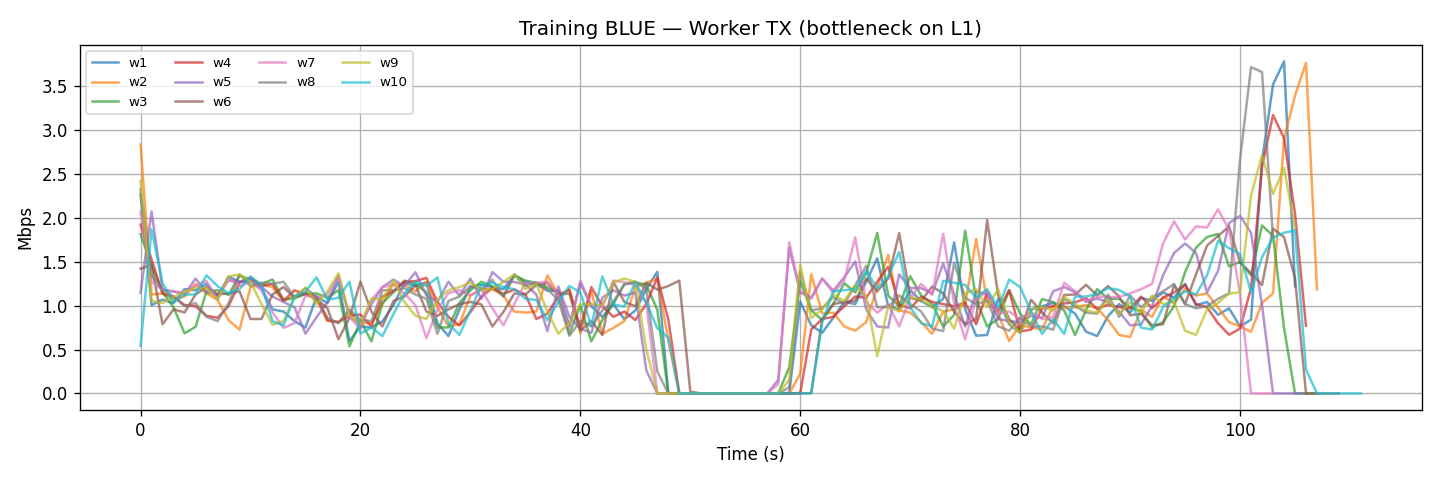
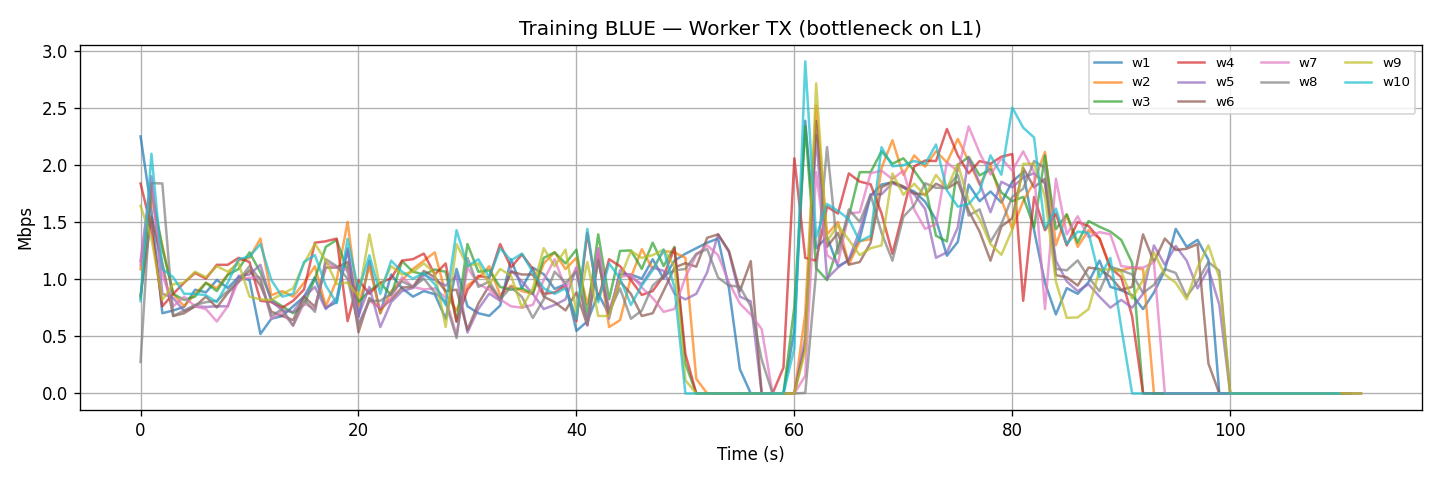
azzero i contatori cumulativi di spine_load

diff --git a/controller/pox/ext/ml_routing.py b/controller/pox/ext/ml_routing.py
@@ -260,6 +260,8 @@ class MLRoutingApp(object):
         # auto-risparatore da single se rilevato uno squilibrio
         if congested and self.routing_mode == "single":
             self.routing_mode = "balanced"
+            # azzera i contatori cumulativi: il bilanciamento riparte da zero
+            self.spine_load = {v: defaultdict(int) for v in self.collectors.values()}
             log.warning("[AUTO] congestion detected -> switching ROUTING_MODE "
                         "'single' -> 'balanced'")
 
